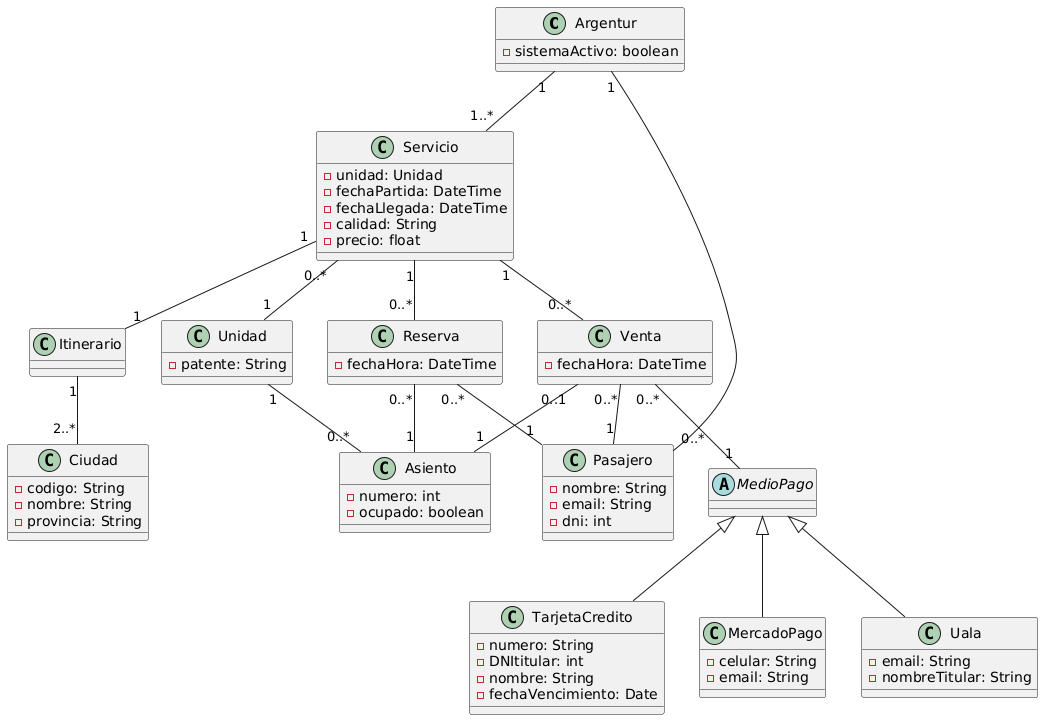
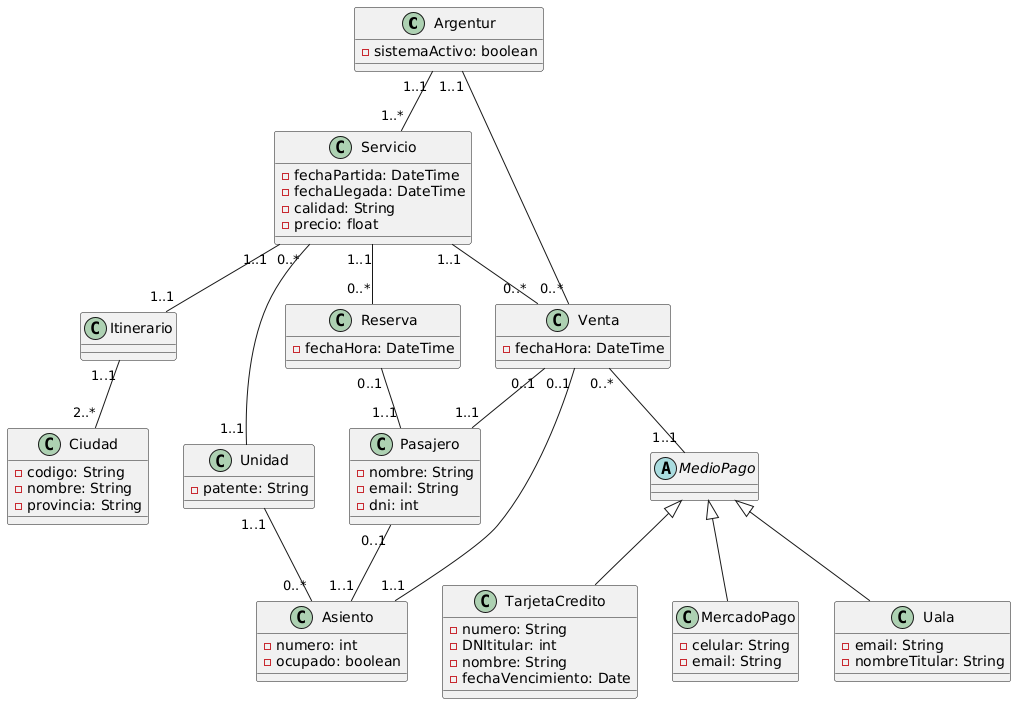
Diagrama y constructores actualizados

diff --git a/sistema/argentur.py b/sistema/argentur.py
@@ -1,11 +1,12 @@
 from modelos.servicio import Servicio
-from modelos.pasajero import Pasajero
+from modelos.venta import Venta
 
 class Argentur:
     # La empresa tiene un estado(está activo o no) y muchos servicios y ¿¿ pasajeros ??
-    def __init__(self, sistema_activo:bool, pasajeros:list[Pasajero], servicios:list[Servicio]):
+    def __init__(self, sistema_activo:bool, ventas:list[Venta], servicios:list[Servicio]):
         self._sistema_activo = sistema_activo
-        self._pasajeros = pasajeros
+        # Relaciones
+        self._ventas = ventas
         self._servicios = servicios
 
     def agregarServicio(self, servicio:Servicio):

diff --git a/modelos/itinerario.py b/modelos/itinerario.py
@@ -3,8 +3,8 @@ from ciudad import Ciudad
 class Itinerario:
     # Un itinerario tiene ciudades de inicio, fin e intermedias
     def __init__(self, ciudad_origen:Ciudad, ciudad_destino:Ciudad, ciudades_de_paradas:list[Ciudad]):
-        self._ciudade_de_origen = ciudad_origen
-        self._ciudade_de_destino = ciudad_destino
+        self._ciudad_de_origen = ciudad_origen
+        self._ciudad_de_destino = ciudad_destino
         self._ciudades_de_parada = ciudades_de_paradas
 
     

diff --git a/modelos/reserva.py b/modelos/reserva.py
@@ -5,7 +5,6 @@ from datetime import datetime
 
 class Reserva:
     # Una reserva tiene un pasajero y un asiento. Ademas posee la fecha y hora de la reserva
-    def __init__(self, pasajero:Pasajero, fecha_y_hora:datetime, asiento:Asiento):
+    def __init__(self, pasajero:Pasajero, fecha_y_hora:datetime):
         self._pasajero = pasajero
         self._fecha_y_hora = fecha_y_hora
-        self._asiento = asiento

diff --git a/modelos/pasajero.py b/modelos/pasajero.py
@@ -1,6 +1,10 @@
+from asiento import Asiento
+
 class Pasajero:
+
     # Un pasajero tiene nombre, email y dni(identificador)
-    def __init__(self, nombre:str, email:str, dni:int):
+    def __init__(self, nombre:str, email:str, dni:int, asiento:Asiento):
         self._nombre = nombre
         self._email = email
         self._dni = dni
+        self._asiento = asiento

diff --git a/main.py b/main.py
@@ -1,0 +1,5 @@
+def main():
+    ...
+
+if __name__ == "__main__":
+    main()
